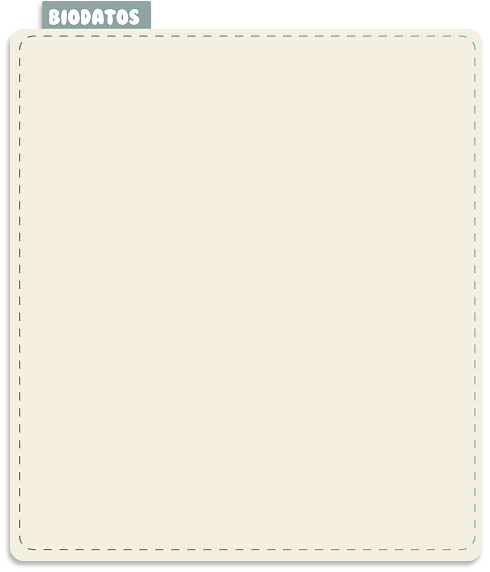
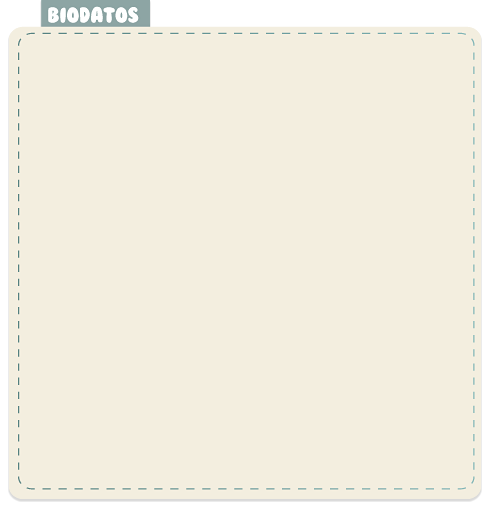
cambios 8pm

Changed region(s): [[0.0, 0.0, 0.9796, 0.9763], [0.0306, 0.9467, 0.9796, 1.0], [0.949, 0.2367, 0.9796, 0.9467]]

diff --git a/view/datos/anima-2.css b/view/datos/anima-2.css
@@ -1,13 +1,21 @@
 @charset "UTF-8";
 /* CSS Document */
 
+#contenido{
+	width:960px;
+	height:523px;
+	overflow:hidden;
+	position:relative;
+	margin:0 auto;
+}
+
 #objeto-1r{
 	width:416px;
 	height:421px;
 	background:url(imagenes/objeto-2.png) no-repeat;
 	position:absolute;
-	left:420px;
-	top:80px;
+	left:275px;
+	top:10px;
 	animation: anima_2r 1s 1;
 	-webkit-animation: anima_2r 1s 1;
 	animation-delay:0.1s;
@@ -24,8 +32,8 @@
 }
 
 @-webkit-keyframes anima_2r{
-	0%{ left:420px; top:80px;}
-	100%{left:420px; top:-500px;}
+	0%{ left:275px; top:10px;}
+	100%{left:275px; top:-500px;}
 }
 
 #objeto-3r{
@@ -33,8 +41,8 @@
 	height:163px;
 	background:url(imagenes/objeto-3.png) no-repeat;
 	position:absolute;
-	left:390px;
-	top:320px;
+	left:225px;
+	top:220px;
 	animation: anima_3r 1.6s 1;
 	-webkit-animation: anima_3r 1.6s 1;
 	animation-delay:0.2s;
@@ -51,8 +59,8 @@
 }
 
 @-webkit-keyframes anima_3r{
-	0%{ left:390px; top:320px;}
-	100%{left:390px; top:1500px;}
+	0%{ left:225px; top:220px;}
+	100%{left:225px; top:1500px;}
 }
 
 
@@ -61,8 +69,8 @@
 	height:211px;
 	background:url(imagenes/boton-1.png) no-repeat;
 	position:absolute;
-	left:500px;
-	top:450px;
+	left:335px;
+	top:320px;
 	animation: anima_4r 1.2s 1;
 	-webkit-animation: anima_4r 1.2s 1;
 	animation-delay:0.1s;
@@ -74,21 +82,21 @@
 }
 
 @keyframes anima_4r{
-	0%{ left:500px; top:450px;}
-	100%{left:500px; top:-500px;}
+	0%{ left:335px; top:320px;}
+	100%{left:335px; top:-500px;}
 }
 
 @-webkit-keyframes anima_4r{
-	0%{ left:500px; top:450px;}
-	100%{left:500px; top:-500px;}
+	0%{ left:335px; top:320px;}
+	100%{left:335px; top:-500px;}
 }
 
 
 .fondo1{
 	position:relative;
-	width:1280px;
-	height:800px;
-	background:url(imagenes/fondo-1.jpg) no-repeat;
+	width:960px;
+	height:523px;
+	/*background:#000;*/
 	animation: bg-fondo 2s 1 ease-out;
 	-webkit-animation: bg-fondo 2s 1 ease-out;
 	animation-delay:0.5s;
@@ -115,7 +123,7 @@
 	width:157px;
 	height:150px;
 	position:absolute;
-	top:550px;
+	top:380px;
 	left:-150px;
 	background:url(imagenes/logo-pie.png) no-repeat;
 	animation:logo-pie 1.5s 1 ease-out;
@@ -132,13 +140,13 @@
 }
 
 @keyframes logo-p{
-	0%{top:550px; left:-150px;}
-	100%{top:550px; left:10px;}
+	0%{left:-100px;}
+	100%{left:10px;}
 }
 
 @-webkit-keyframes logo-p{
-	0%{top:550px; left:-150px;}
-	100%{top:550px; left:10px;}
+	0%{left:-150px;}
+	100%{left:0px;}
 }
 
 #aviso-2{
@@ -146,13 +154,13 @@
 	height:231px;
 	position:absolute;
 	top:-300px;
-	left:1000px;
+	left:730px;
 	background:url(imagenes/aviso-2.png) no-repeat;
 	animation:aviso2 0.8s 1 ease-out;
-	-webkit-animation:aviso2 0.8s 1 ease-out;
-	-moz-animation:aviso2 0.8s 1 ease-out;
-	-ms-animation:aviso2 0.8s 1 ease-out;
-	-o-animation:aviso2 0.8s 1 ease-out;
+	-webkit-animation:aviso2 1s 1 ease-out;
+	-moz-animation:aviso2 1s 1 ease-out;
+	-ms-animation:aviso2 1s 1 ease-out;
+	-o-animation:aviso2 1s 1 ease-out;
 	animation-delay:2.5s;
 	-webkit-animation-delay:2.5s;
 	-moz-animation-delay:2.5s;
@@ -163,27 +171,27 @@
 
 
 @keyframes aviso2{
-	0%{top:-300px; left:1000px;}
-	100%{top:0px; left:1000px;}
+	0%{top:-300px; }
+	100%{top:0px; }
 }
 
 @-webkit-keyframes aviso2{
-	0%{top:-300px; left:1000px;}
-	100%{top:0px; left:1000px;}
+	0%{top:-300px;}
+	100%{top:0px;}
 }
 
 #aform{
 	width:490px;
-	height:572px;
+	height:507px;
 	position:absolute;
-	top:50px;
+	top:10px;
 	left:1300px;
 	background:url(imagenes/bg-form.png) no-repeat;
-	animation:form1 0.7s 1 ease-out;
-	-webkit-animation:form1 0.7s 1 ease-out;
-	-moz-animation:form1 0.7s 1 ease-out;
-	-ms-animation:form1 0.7s 1 ease-out;
-	-o-animation:form1 0.7s 1 ease-out;
+	animation:form1 1s 1 ease-out;
+	-webkit-animation:form1 1s 1;
+	-moz-animation:form1 1s 1;
+	-ms-animation:form1 1s 1;
+	-o-animation:form1 1s 1;
 	animation-delay:2s;
 	-webkit-animation-delay:2s;
 	-moz-animation-delay:2s;
@@ -195,13 +203,13 @@
 }
 
 @keyframes form1{
-	0%{top:50px; left:1300px;}
-	100%{top:50px; left:360px;}
+	0%{left:1300px;}
+	100%{left:360px;}
 }
 
 @-webkit-keyframes form1{
-	0%{top:50px; left:1300px;}
-	100%{top:50px; left:360px;}
+	0%{left:1300px;}
+	100%{left:195px;}
 }
 
 
@@ -235,7 +243,7 @@
 
 .formulario-1 .campo, .lista-1, .text-area1{
  width:200px;
- height:18px;
+ height:30px;
  margin:5px;
     border-radius:4px;
     -moz-border-radius:4px;
@@ -284,4 +292,10 @@
 
 .flotante{
 	float:left;
+}
+
+#botonGuardarDatos{
+	width:115px;
+	height:34px;
+	padding:20px;
 }

diff --git a/view/anima-intro.css b/view/anima-intro.css
@@ -2,12 +2,20 @@
 /* CSS Document */
 
 
+#contenido{
+	width:960px;
+	height:523px;
+	overflow:hidden;
+	position:relative;
+	margin:0 auto;
+}
+
 #aviso-1{
 	width:266px;
 	height:438px;
 	background:url(imagenes/objeto-1.png) no-repeat;
 	position:absolute;
-	left:500px;
+	left:335px;
 	top:-500px;
 	animation-timing-function:ease-out;
 	-webkit-animation-timing-function:ease-out;
@@ -26,16 +34,16 @@
 
 @keyframes avisoAn{
 	0%{ left:500px; top:-500px;}
-	20%{left:500px; top:0px;}
-	80%{left:500px; top:0px;}
+	20%{left:500px; top:-20px;}
+	80%{left:500px; top:-0px;}
 	100%{left:500px; top:-500px;}
 }
 
 @-webkit-keyframes avisoAn{
-	0%{ left:500px; top:-500px;}
-	20%{left:500px; top:0px;}
-	80%{left:500px; top:0px;}
-	100%{ left:500px; top:-500px;}
+	0%{ left:335px; top:-500px;}
+	20%{left:335px; top:-20px;}
+	80%{left:335px; top:-20px;}
+	100%{left:335px; top:-500px;}
 }
 
 
@@ -44,12 +52,12 @@
 	height:421px;
 	background:url(imagenes/objeto-2.png) no-repeat;
 	position:absolute;
-	left:420px;
+	left:275px;
 	top:-500px;
 	animation: anima_2 1s 1;
 	-webkit-animation: anima_2 1s 1;
-	animation-delay:3s;
-	-webkit-animation-delay:3s;
+	animation-delay:3.2s;
+	-webkit-animation-delay:3.2s;
 	animation-fill-mode: forwards;
 	-webkit-animation-fill-mode: forwards;
 	z-index:1;
@@ -62,8 +70,8 @@
 }
 
 @-webkit-keyframes anima_2{
-	0%{ left:420px; top:-500px;}
-	100%{left:420px; top:80px;}
+	0%{ left:275px; top:-500px;}
+	100%{left:275px; top:10px;}
 }
 
 #objeto-3{
@@ -71,10 +79,10 @@
 	height:163px;
 	background:url(imagenes/objeto-3.png) no-repeat;
 	position:absolute;
-	left:390px;
+	left:225px;
 	top:1500px;
-	animation: anima_3 0.5s 1;
-	-webkit-animation: anima_3 0.5s 1;
+	animation: anima_3 1.3s 1;
+	-webkit-animation: anima_3 1.3s 1;
 	animation-delay:3.3s;
 	-webkit-animation-delay:3.3s;
 	animation-fill-mode: forwards;
@@ -84,13 +92,13 @@
 }
 
 @keyframes anima_3{
-	0%{ left:390px; top:1500px;}
-	100%{left:390px; top:320px;}
+	0%{ left:225px; top:1500px;}
+	100%{left:225px; top:220px;}
 }
 
 @-webkit-keyframes anima_3{
-	0%{ left:390px; top:1500px;}
-	100%{left:390px; top:320px;}
+	0%{ left:225px; top:1500px;}
+	100%{left:225px; top:220px;}
 }
 
 
@@ -99,8 +107,8 @@
 	height:211px;
 	background:url(imagenes/boton-1.png) no-repeat;
 	position:absolute;
-	left:500px;
-	top:450px;
+	left:335px;
+	top:320px;
 	opacity:0;
 	animation: anima_4 1.5s 1;
 	-webkit-animation: anima_4 1.5s 1;
@@ -113,11 +121,11 @@
 
 @keyframes anima_4{
 	0%{ opacity:1;
-	transform: perspective( 400px ) rotateX(-45deg);
+	transform: rotateX(-45deg);
 	transform:scale(0);
 	}
 	100%{ opacity:1;
-	transform: perspective( 600px ) rotateX(0deg); 
+	transform: rotateX(0deg); 
 	transform:scale(1);
     }
 }
@@ -125,22 +133,22 @@
 @-webkit-keyframes anima_4{
 	0%{ opacity:1;
 	    -webkit-transform:rotateX(-90deg) scale(0.9);
-	    top:365px; 
+	    top:260px; 
 	}
 	
 	35%{ opacity:1;
 	     -webkit-transform:rotateX(0deg) scale(1);
-	     top:425px;
+	     top:320px;
 	}
 	
 	70%{ opacity:1;
 	     -webkit-transform:rotateX(15deg) scale(1);
-	     top:415px;
+	     top:310px;
 	}
 	
 	100%{ opacity:1;
 	-webkit-transform:rotateX(0deg) scale(1);
-	top:425px; 
+	top:320px; 
     }
 
 }

diff --git a/view/datos/datos.php b/view/datos/datos.php
@@ -5,7 +5,7 @@
 
 
 
-<div class="container_12">
+<div id="contenido" class="container_12">
 
 
     <div class="fondo1"></div>
@@ -102,7 +102,7 @@
             </div>    
 
             <div class="clear"></div>
-            <a href="#" id="botonGuardarDatos"> Guardar</a>
+            <a href="#" id="botonGuardarDatos">Guardar</a>
     </form>
 
 
